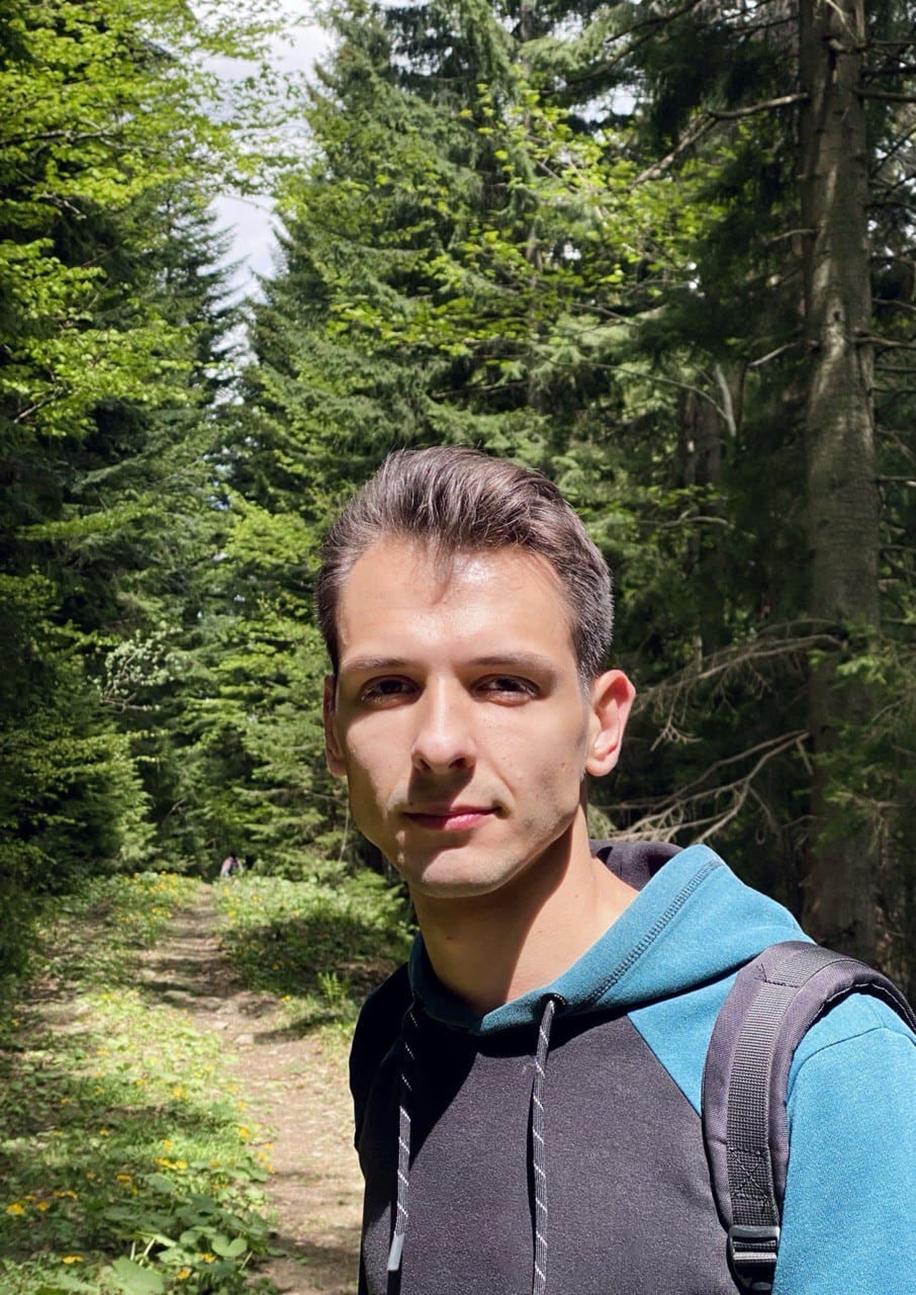
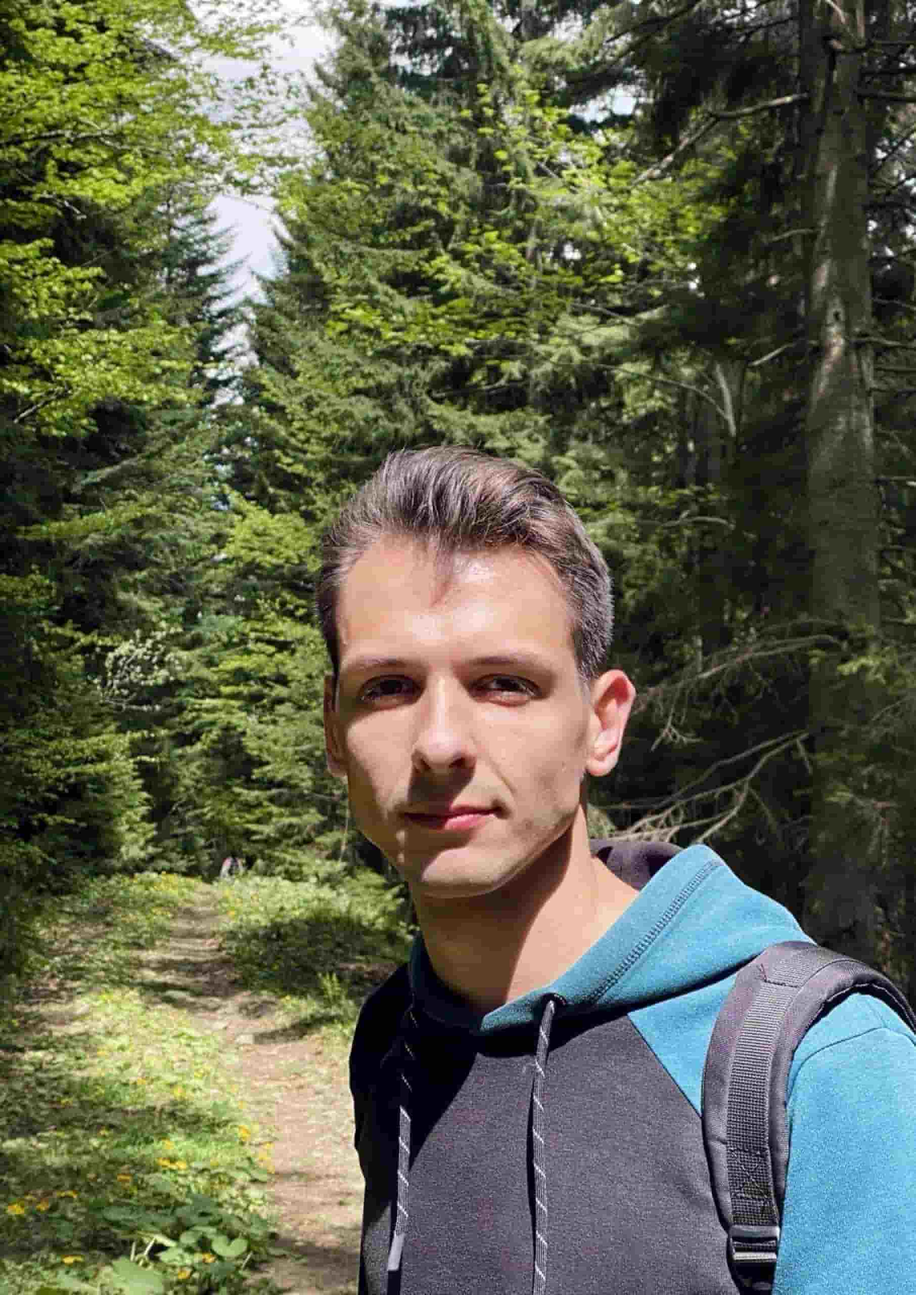
1

diff --git a/src/js/modal-movie-card.js b/src/js/modal-movie-card.js
@@ -2,9 +2,7 @@ import { dataLocalStorage } from './local-storage';
 import { API_URL, API_KEY } from './key-url';
 import { id, openCardMovie } from './modal-movie-card-open';
 import { disableLoader } from './loader';
-//
 const modalCard = document.querySelector('.modal-movie-card');
-//
 async function modalCreateMarkup() {
   let url = `${API_URL}movie/${id}?api_key=${API_KEY}`;
   await fetch(url)
@@ -27,7 +25,7 @@ function createModal(movie, genreMovieCard) {
   modalCard.innerHTML = ``;
   return `
   <div class="modal-movie-card__img-wrapper">
-      <img src="https://www.themoviedb.org/t/p/w500${movie.poster_path}" alt="${movie.title
+      <img src="https://www.themoviedb.org/t/p/w300${movie.poster_path}" alt="${movie.title
     }" class="lazyload" data-id=${movie.id
     } onerror="this.src='https://ik.imagekit.io/tc8jxffbcvf/default-movie-portrait_EmJUj9Tda5wa.jpg?tr=fo-auto,di-';"/>
     </div>
@@ -64,7 +62,6 @@ function createModal(movie, genreMovieCard) {
       <p class="modal-movie-card__description">
        ${movie.overview}
       </p>
-
 <div class="modal-movie-card__button thumb">
 <div class="change-button__wrapper">
 <label>
@@ -83,6 +80,5 @@ function createModal(movie, genreMovieCard) {
     </div>
     `;
 }
-
 export { openCardMovie };
 export { modalCreateMarkup };

diff --git a/src/partials/header.html b/src/partials/header.html
@@ -4,7 +4,7 @@
       <li class="site-nav__item">
         <ul class="site-nav__link-list">
           <svg class="film-logo">
-            <a href="./index.html">
+            <a href="./index.html" aria-label="Home">
             <use href="./images/sprite.svg#icon-film"></use>
             </a>
           </svg>
@@ -13,7 +13,7 @@
           </li>
         </ul>
       </li>
-  
+
         <li class="site-nav__item">
           <ul class="site-nav__link-list">
             <li class="site-nav__home">
@@ -27,7 +27,7 @@
             </li>
           </ul>
         </li>
-     
+
     </ul>
 
     <form class="search-form" id="search-form">
@@ -38,11 +38,11 @@
         autocomplete="off"
         placeholder="Movie search"
       />
-      <button type="submit" class="search-form__btn">
+      <button type="submit" aria-label="search" class="search-form__btn">
         <svg class="search">
           <use href="./images/sprite.svg#icon-search-2"></use>
         </svg>
-        
+
       </button>
     </form>
 

diff --git a/src/partials/modal-team.html b/src/partials/modal-team.html
@@ -1,6 +1,6 @@
 <div class="backdrop is-hidden js-modal-team">
   <div class="modal team__modal">
-<!--       
+<!--
       <div class="modal__wrapper">
           <button type="button" class="modal__close-btn js-modal-close">
               <svg class="modal__close-icon" width="18" height="18">
@@ -8,7 +8,7 @@
               </svg>
           </button>
       </div> -->
-      
+
       <div class="team">
   <button type="button" class="modal__close-btn js-modal-close">
   <svg class="modal__close-icon" width="18" height="18">
@@ -97,8 +97,8 @@
       <div class="team__img-wrapper">
         <img
           class="team__img"
-          srcset="./images/Team/Vlad.jpeg 1x, ./images/Team/Vlad2x.jpg 2x"
-          src="./images/Team/Vlad.jpeg"
+          srcset="./images/Team/Vlad.jpg 1x, ./images/Team/Vlad2x.jpg 2x"
+          src="./images/Team/Vlad.jpg"
           alt="Vlad"
           width="170"
           height="120"

diff --git a/src/js/modal-movie-card-open.js b/src/js/modal-movie-card-open.js
@@ -1,10 +1,9 @@
 import { modalCreateMarkup } from './modal-movie-card';
 import { closeCardMovie, onEscKeyPress } from './modal-movie-card-close';
 import { enableLoader } from './loader';
-const openModal = document.querySelector('ul.js-open-modal-card-movie');
+const openModal = document.querySelector('[data-modal-movie-card-open]');
 
 let id;
-//Берем id с карточки по которой кликнули
 function openCardMovie(e) {
   id = Number(e.target.getAttribute('data-id'));
   if (
@@ -13,7 +12,6 @@ function openCardMovie(e) {
     e.target.nodeName === 'P' ||
     e.target.nodeName === 'H3'
   ) {
-
   document.body.classList.add('show-modal');
   window.addEventListener('keydown', onEscKeyPress);
   document.body.style.overflow = 'hidden';
@@ -22,5 +20,4 @@ function openCardMovie(e) {
   }
 }
 openModal.addEventListener('click', openCardMovie);
-
 export { id, openCardMovie };

diff --git a/src/js/modal-movie-card-close.js b/src/js/modal-movie-card-close.js
@@ -1,25 +1,20 @@
 const closeModalBtn = document.querySelector('[data-modal-movie-card-close]');
 const backdrop = document.querySelector('.modal-movie-card__js-backdrop');
-
-// При выходе забираем класс.
 function closeCardMovie() {
   document.body.classList.remove('show-modal');
   window.removeEventListener('keydown', onEscKeyPress);
   document.body.style.overflow = '';
 }
-// Выход по backdrop
 function backdropClickClose(e) {
   if (e.currentTarget === e.target) {
     closeCardMovie();
   }
 }
-// Выход по ESC
 function onEscKeyPress(e) {
   if (e.code === 'Escape') {
     closeCardMovie();
   }
 }
-
 closeModalBtn.addEventListener('click', closeCardMovie);
 backdrop.addEventListener('click', backdropClickClose);
 export { closeCardMovie, onEscKeyPress };

diff --git a/src/js/renderTrends.js b/src/js/renderTrends.js
@@ -12,7 +12,7 @@ function renderMovies(data) {
         return `<li class="gallery__item movie-card" data-id=${id}>
         <a href="#" class="gallery__link movie-card__link link" data-id=${id}>
     <div class="gallery__wrapper" data-id=${id}>
-    
+
         <img
             class="gallery__img movie-card__image"
             src="https://www.themoviedb.org/t/p/w500${poster_path}"
@@ -36,7 +36,3 @@ function renderMovies(data) {
 }
 
 export { renderMovies };
-
-
-
-// <span class="gallery__vote" data-id=${id}>${rating}</span>

diff --git a/src/partials/modal_movie_card.html b/src/partials/modal_movie_card.html
@@ -1,6 +1,6 @@
 <div class="modal-movie-card__backdrop modal-movie-card__js-backdrop">
   <div class="modal-movie-card__container">
-    <button type="button" class="modal-movie-card__close-btn" data-modal-movie-card-close>
+    <button type="button" aria-label="Close" class="modal-movie-card__close-btn" data-modal-movie-card-close>
       <span class="modal-movie-card__icon">
         <svg class="modal-movie-card__icon-exit">
           <use href="./images/sprite.svg#icon-exit"></use>

diff --git a/src/partials/my-library-main.html b/src/partials/my-library-main.html
@@ -3,7 +3,7 @@
     <div class="container">
         <h1 hidden class="section-title">Movies</h1>
 
-        <ul class="library-list movies-cardset list js-open-modal-card-movie">
+        <ul class="library-list movies-cardset list" data-modal-movie-card-open>
             <!-- <h2> Please add some movies to WATCHED! </h2> -->
         </ul>
     </div>

diff --git a/src/partials/gallery.html b/src/partials/gallery.html
@@ -1,6 +1,6 @@
 <section class="section movies">
     <div class="container">
         <h2 hidden class="section-title">Movies</h2>
-        <ul class="gallery__list movies-cardset list js-open-modal-card-movie"></ul>
+        <ul class="gallery__list movies-cardset list" data-modal-movie-card-open></ul>
     </div>
 </section>
